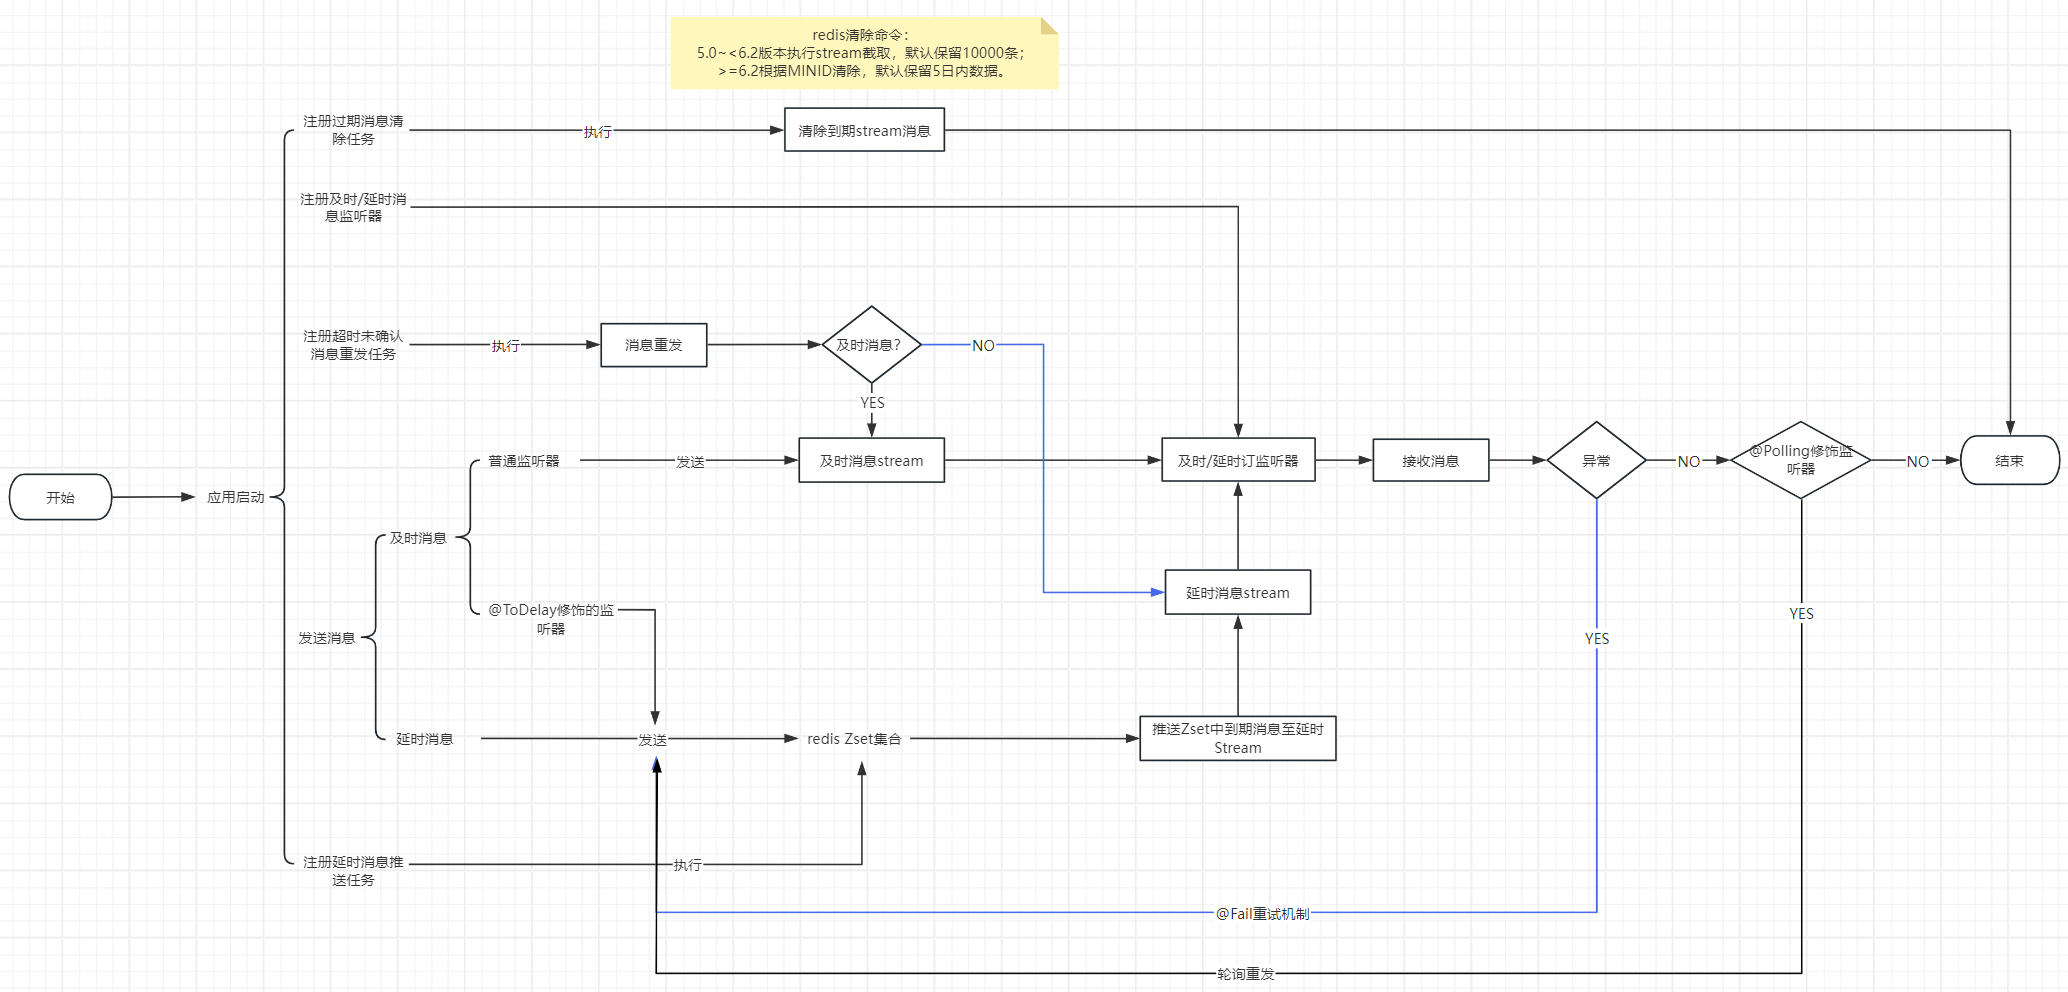
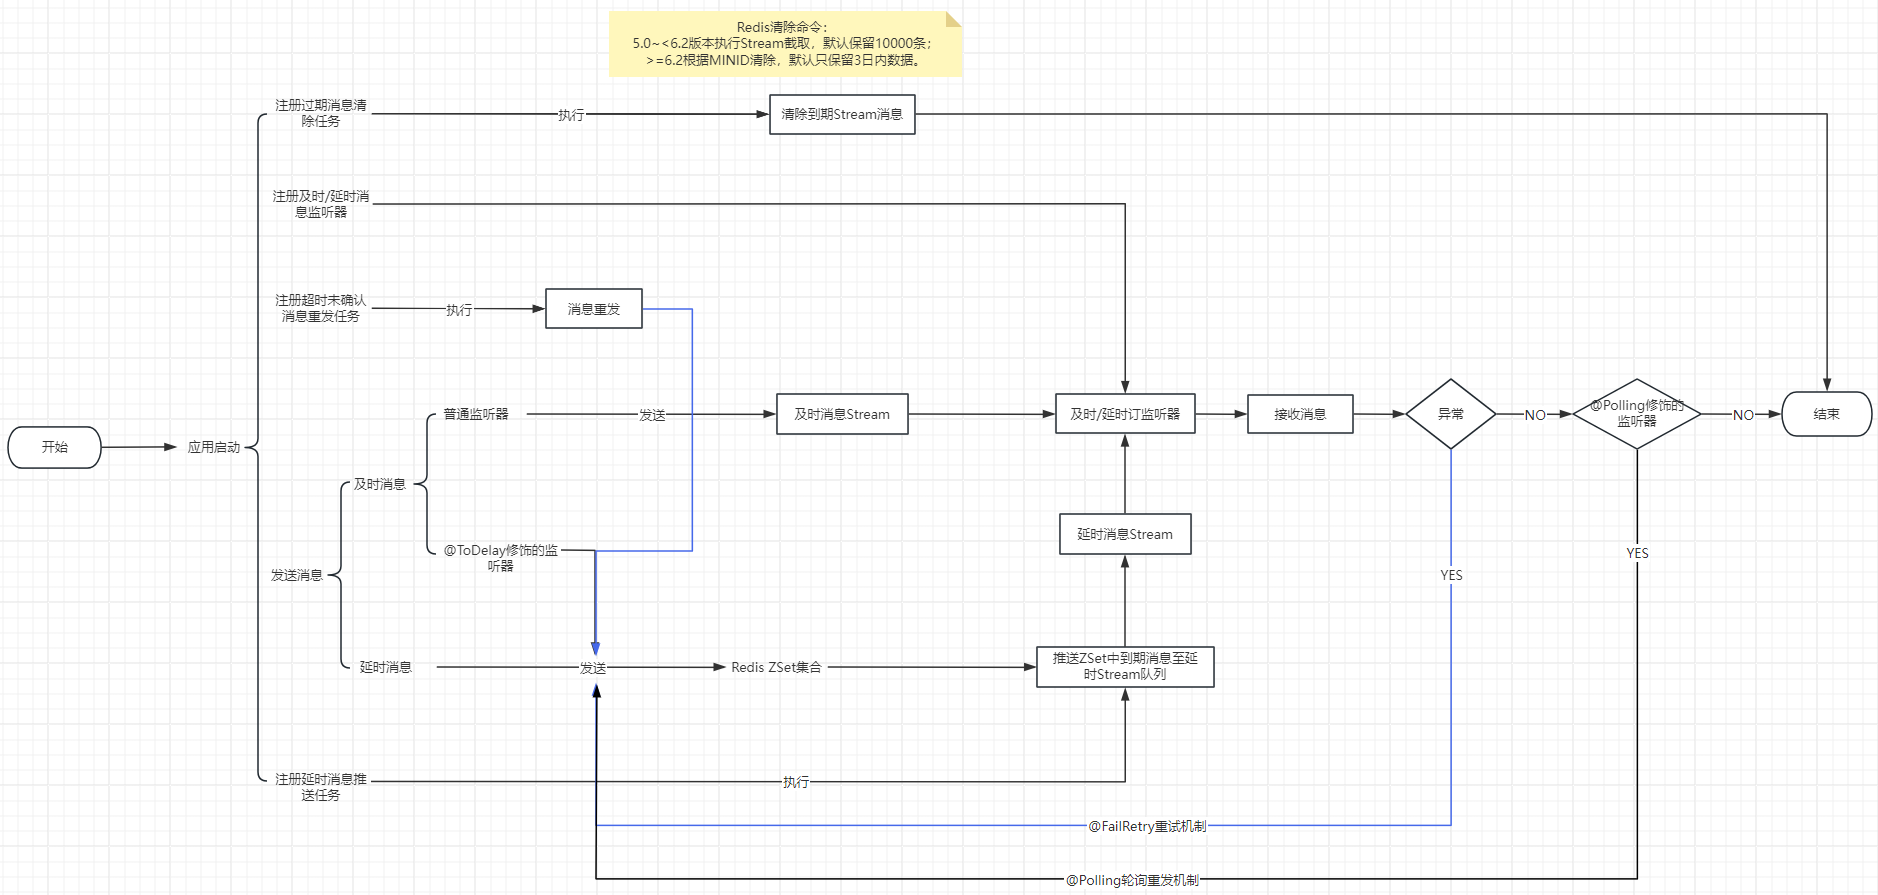
feat(core): 优化消息重试机制和线程池配置
- 重发/重试消息接收并发数统一为 retryConcurrency
- 新增 pollBlockMillis 配置项，用于设置 Redis Stream轮询阻塞时间
- 新增 deliverGroupThreadPoolSize 和 deliverGroupThreadKeepAliveTime 配置项，用于设置消息投递线程池配置
- 优化消息轮询和投递逻辑，提高系统稳定性和性能

diff --git a/eventbus-spring-boot-starter/src/main/java/com/github/likavn/eventbus/provider/redis/support/XDefaultStreamMessageListenerContainer.java b/eventbus-spring-boot-starter/src/main/java/com/github/likavn/eventbus/provider/redis/support/XDefaultStreamMessageListenerContainer.java
@@ -32,9 +32,7 @@ import org.springframework.util.Assert;
 import org.springframework.util.ErrorHandler;
 
 import java.time.Duration;
-import java.util.ArrayList;
-import java.util.Collections;
-import java.util.List;
+import java.util.*;
 import java.util.concurrent.BlockingDeque;
 import java.util.concurrent.Executor;
 import java.util.concurrent.LinkedBlockingDeque;
@@ -57,9 +55,13 @@ class XDefaultStreamMessageListenerContainer<K, V extends Record<K, ?>> implemen
 
     private final Object lifecycleMonitor = new Object();
 
-    private final PollThreadPoolExecutor poolPullExecutor;
+    private final PollThreadPoolExecutor streamPollExecutor;
 
-    private final GroupedThreadPoolExecutor taskExcExecutor;
+    private final GroupedThreadPoolExecutor deliverExecutor;
+    /**
+     * stream 轮询拉取任务
+     */
+    private final BlockingDeque<XStreamPollTask> streamPollTasks = new LinkedBlockingDeque<>();
     private final ErrorHandler errorHandler;
     private final StreamReadOptions readOptions;
     private final RedisTemplate<K, ?> template;
@@ -77,14 +79,16 @@ class XDefaultStreamMessageListenerContainer<K, V extends Record<K, ?>> implemen
      * @param containerOptions  must not be {@literal null}.
      * @param taskExcExecutor
      */
-    XDefaultStreamMessageListenerContainer(RedisConnectionFactory connectionFactory,
-                                           StreamMessageListenerContainerOptions<K, V> containerOptions, GroupedThreadPoolExecutor taskExcExecutor) {
+    XDefaultStreamMessageListenerContainer(RedisConnectionFactory connectionFactory, StreamMessageListenerContainerOptions<K, V> containerOptions, GroupedThreadPoolExecutor deliverExecutor) {
 
         Assert.notNull(connectionFactory, "RedisConnectionFactory must not be null!");
         Assert.notNull(containerOptions, "StreamMessageListenerContainerOptions must not be null!");
 
-        this.poolPullExecutor = (PollThreadPoolExecutor) containerOptions.getExecutor();
-        this.taskExcExecutor = taskExcExecutor;
+        this.streamPollExecutor = (PollThreadPoolExecutor) containerOptions.getExecutor();
+        this.deliverExecutor = deliverExecutor;
+        this.deliverExecutor.setAfterConsumer(t -> {
+            streamPollTasks.add((XStreamPollTask) t.getTask().getData());
+        });
         this.errorHandler = containerOptions.getErrorHandler();
         this.readOptions = getStreamReadOptions(containerOptions);
         this.template = createRedisTemplate(connectionFactory, containerOptions);
@@ -112,8 +116,7 @@ class XDefaultStreamMessageListenerContainer<K, V extends Record<K, ?>> implemen
         return readOptions;
     }
 
-    private RedisTemplate<K, V> createRedisTemplate(RedisConnectionFactory connectionFactory,
-                                                    StreamMessageListenerContainerOptions<K, V> containerOptions) {
+    private RedisTemplate<K, V> createRedisTemplate(RedisConnectionFactory connectionFactory, StreamMessageListenerContainerOptions<K, V> containerOptions) {
 
         RedisTemplate<K, V> template = new RedisTemplate<>();
         template.setKeySerializer(containerOptions.getKeySerializer());
@@ -169,23 +172,49 @@ class XDefaultStreamMessageListenerContainer<K, V extends Record<K, ?>> implemen
     }
 
     public void doloop(List<XStreamPollTask> tasks) {
-        BlockingDeque<XStreamPollTask> blockingTasks = new LinkedBlockingDeque<>(tasks);
-        taskExcExecutor.setAfterConsumer(t -> {
-            blockingTasks.add((XStreamPollTask) t.getTask().getData());
-        });
-        int corePoolSize = poolPullExecutor.getCorePoolSize();
+        tasks.forEach(task -> streamPollTasks.add(task));
+        int corePoolSize = streamPollExecutor.getCorePoolSize();
         while (corePoolSize-- > 0) {
-            poolPullExecutor.execute(() -> {
+            streamPollExecutor.execute(() -> {
                 try {
-                    XStreamPollTask task = blockingTasks.take();
+                    validColdTasks();
+                    XStreamPollTask task = streamPollTasks.take();
                     if (task.pull()) {
-                        blockingTasks.add(task);
+                        addColdTask(task);
                     }
                 } catch (InterruptedException e) {
-                    log.error("XDefaultStreamMessageListenerContainer.stop", e);
+                    log.error("XDefaultStreamMessageListenerContainer.doloop", e);
                 }
             });
         }
+    }
+    private volatile SortedMap<Long, List<XStreamPollTask>> coldStreamPollTasks = new TreeMap<>((o1, o2) -> -o1.compareTo(o2));
+    private synchronized void addColdTask(XStreamPollTask task) {
+        long l = System.currentTimeMillis();
+        List<XStreamPollTask> tasks = coldStreamPollTasks.get(l);
+        if (null == tasks) {
+            tasks = new ArrayList<>(1);
+            tasks.add(task);
+            coldStreamPollTasks.put(l, tasks);
+            return;
+        }
+        tasks.add(task);
+    }
+    private synchronized void validColdTasks() {
+        SortedMap<Long, List<XStreamPollTask>> subMap = coldStreamPollTasks.tailMap(System.currentTimeMillis() - 1000L * 2);
+        if (!subMap.isEmpty()) {
+            streamPollTasksAdd(subMap);
+            return;
+        }
+        if (streamPollTasks.isEmpty()) {
+            streamPollTasksAdd(coldStreamPollTasks);
+        }
+    }
+    private void streamPollTasksAdd(SortedMap<Long, List<XStreamPollTask>> map) {
+        map.forEach((k, tasks) ->
+                tasks.forEach(task ->
+                        streamPollTasks.add(task)));
+        map.clear();
     }
 
     /*
@@ -202,7 +231,7 @@ class XDefaultStreamMessageListenerContainer<K, V extends Record<K, ?>> implemen
                 subscriptions.forEach(Cancelable::cancel);
 
                 running = false;
-                poolPullExecutor.terminated();
+                streamPollExecutor.terminated();
             }
         }
     }
@@ -246,7 +275,7 @@ class XDefaultStreamMessageListenerContainer<K, V extends Record<K, ?>> implemen
 
         BiFunction<K, ReadOffset, List<? extends Record<?, ?>>> readFunction = getReadFunction(streamRequest);
 
-        return new XStreamPollTask<>(streamRequest, listener, errorHandler, (BiFunction) readFunction, taskExcExecutor, redisListener);
+        return new XStreamPollTask<>(streamRequest, listener, errorHandler, (BiFunction) readFunction, deliverExecutor, redisListener);
     }
 
     @SuppressWarnings("unchecked")
@@ -256,21 +285,18 @@ class XDefaultStreamMessageListenerContainer<K, V extends Record<K, ?>> implemen
 
             ConsumerStreamReadRequest<K> consumerStreamRequest = (ConsumerStreamReadRequest<K>) streamRequest;
 
-            StreamReadOptions readOptions = consumerStreamRequest.isAutoAcknowledge() ? this.readOptions.autoAcknowledge()
-                    : this.readOptions;
+            StreamReadOptions readOptions = consumerStreamRequest.isAutoAcknowledge() ? this.readOptions.autoAcknowledge() : this.readOptions;
             Consumer consumer = consumerStreamRequest.getConsumer();
 
             if (this.containerOptions.getHashMapper() != null) {
-                return (key, offset) -> streamOperations.read(this.containerOptions.getTargetType(), consumer, readOptions,
-                        StreamOffset.create(key, offset));
+                return (key, offset) -> streamOperations.read(this.containerOptions.getTargetType(), consumer, readOptions, StreamOffset.create(key, offset));
             }
 
             return (key, offset) -> streamOperations.read(consumer, readOptions, StreamOffset.create(key, offset));
         }
 
         if (this.containerOptions.getHashMapper() != null) {
-            return (key, offset) -> streamOperations.read(this.containerOptions.getTargetType(), readOptions,
-                    StreamOffset.create(key, offset));
+            return (key, offset) -> streamOperations.read(this.containerOptions.getTargetType(), readOptions, StreamOffset.create(key, offset));
         }
 
         return (key, offset) -> streamOperations.read(readOptions, StreamOffset.create(key, offset));

diff --git a/eventbus-spring-boot-starter/src/main/java/com/github/likavn/eventbus/provider/redis/support/AbstractStreamListenerContainer.java b/eventbus-spring-boot-starter/src/main/java/com/github/likavn/eventbus/provider/redis/support/AbstractStreamListenerContainer.java
@@ -89,7 +89,7 @@ public abstract class AbstractStreamListenerContainer implements AcquireListener
                 // 设置消息消费异常的处理程序
                 .errorHandler(t -> log.error("[Eventbus error] ", t))
                 // 设置轮询超时时间，如果设置为0，则表示不超时
-                .pollTimeout(Duration.ofMillis(5))
+                .pollTimeout(Duration.ofMillis(config.getRedis().getPollBlockMillis()))
                 // 设置序列化器
                 .serializer(new StringRedisSerializer())
                 // 设置目标类型为String
@@ -114,11 +114,11 @@ public abstract class AbstractStreamListenerContainer implements AcquireListener
         BusProperties.RedisProperties redis = config.getRedis();
         // 根据配置创建不同的线程池
         PollThreadPoolExecutor executor = new PollThreadPoolExecutor(redis.getPollThreadPoolSize(), redis.getPollThreadPoolSize(), 1,
-                TimeUnit.MINUTES, new LinkedBlockingDeque<>(1), new NamedThreadFactory(this.getClass().getSimpleName() + "-"));
+                TimeUnit.MINUTES, new LinkedBlockingDeque<>(1), new NamedThreadFactory(this.getClass().getSimpleName() + ".poll-"));
         // 分发消息的线程池
-        GroupedThreadPoolExecutor excExecutor = new GroupedThreadPoolExecutor(1, 1000 * redis.getPollThreadKeepAliveTime(),
-                new NamedThreadFactory(this.getClass().getSimpleName() + ".exc-"));
-        return new Object[]{executor, excExecutor};
+        GroupedThreadPoolExecutor deliverExecutor = new GroupedThreadPoolExecutor(redis.getDeliverGroupThreadPoolSize(), redis.getDeliverGroupThreadKeepAliveTime(),
+                new NamedThreadFactory(this.getClass().getSimpleName() + ".deliver-"));
+        return new Object[]{executor, deliverExecutor};
     }
 
     /**

diff --git a/eventbus-spring-boot-starter/src/main/java/com/github/likavn/eventbus/provider/redis/support/XStreamPollTask.java b/eventbus-spring-boot-starter/src/main/java/com/github/likavn/eventbus/provider/redis/support/XStreamPollTask.java
@@ -43,7 +43,7 @@ import java.util.function.Predicate;
  */
 @SuppressWarnings("all")
 class XStreamPollTask<K, V extends Record<K, ?>> implements Task {
-    private final GroupedThreadPoolExecutor taskExcExecutor;
+    private final GroupedThreadPoolExecutor deliverExecutor;
     private final StreamReadRequest<K> request;
     private final StreamListener<K, V> listener;
     private final ErrorHandler errorHandler;
@@ -56,8 +56,8 @@ class XStreamPollTask<K, V extends Record<K, ?>> implements Task {
     private volatile boolean isInEventLoop = false;
 
     XStreamPollTask(StreamReadRequest<K> streamRequest, StreamListener<K, V> listener, ErrorHandler errorHandler,
-                    BiFunction<K, ReadOffset, List<V>> readFunction, GroupedThreadPoolExecutor taskExcExecutor, RedisListener redisListener) {
-        this.taskExcExecutor = taskExcExecutor;
+                    BiFunction<K, ReadOffset, List<V>> readFunction, GroupedThreadPoolExecutor deliverExecutor, RedisListener redisListener) {
+        this.deliverExecutor = deliverExecutor;
         this.request = streamRequest;
         this.listener = listener;
         this.errorHandler = Optional.ofNullable(streamRequest.getErrorHandler()).orElse(errorHandler);
@@ -164,7 +164,7 @@ class XStreamPollTask<K, V extends Record<K, ?>> implements Task {
             if (read.isEmpty()) {
                 return true;
             }
-            this.taskExcExecutor.execute(task.target(() -> {
+            this.deliverExecutor.execute(task.target(() -> {
                 for (V message : read) {
 
                     listener.onMessage(message);

diff --git a/eventbus-spring-boot-starter/src/main/java/com/github/likavn/eventbus/prop/BusProperties.java b/eventbus-spring-boot-starter/src/main/java/com/github/likavn/eventbus/prop/BusProperties.java
@@ -42,13 +42,21 @@ public class BusProperties extends BusConfig {
     @Data
     public static class RedisProperties {
         /**
-         * 轮询时拉取redis stream 中消息的线程最大数，默认为：2个
+         * 轮询时拉取Redis Stream中消息的线程池大小，默认为：2
          */
         private Integer pollThreadPoolSize = 2;
         /**
-         * 轮询时，接收消息的线程池中空闲线程存活时长，单位：秒，默认为：300s
+         * 轮询时拉取Redis Stream中消息的阻塞时间，单位：毫秒，默认为：5ms
          */
-        private Integer pollThreadKeepAliveTime = 300;
+        private Long pollBlockMillis = 5L;
+        /**
+         * 投递消息线程池大小，默认为：5
+         */
+        private Integer deliverGroupThreadPoolSize = 5;
+        /**
+         * 投递消息线程池中空闲线程存活时长，单位：毫秒，默认为：60s
+         */
+        private Long deliverGroupThreadKeepAliveTime = 1000L * 60;
         /**
          * 消息超时时间，超时消息未被确认，才会被重新投递，单位：秒，默认：5分钟
          */

diff --git a/eventbus-core/src/main/java/com/github/likavn/eventbus/core/base/MsgListenerContainer.java b/eventbus-core/src/main/java/com/github/likavn/eventbus/core/base/MsgListenerContainer.java
@@ -45,7 +45,7 @@ public class MsgListenerContainer {
     /**
      * 启动检测状态
      */
-    public void startup() {
+    public synchronized void startup() {
         if (Func.isEmpty(listeners)) {
             return;
         }
@@ -56,7 +56,7 @@ public class MsgListenerContainer {
     /**
      * 停止检测状态
      */
-    public void shutdown() {
+    public synchronized void shutdown() {
         this.active = false;
         this.destroyListeners();
     }
@@ -64,7 +64,7 @@ public class MsgListenerContainer {
     /**
      * 注册所有监听组件
      */
-    protected void registerListeners() {
+    protected synchronized void registerListeners() {
         if (!this.active) {
             return;
         }
@@ -79,7 +79,7 @@ public class MsgListenerContainer {
     /**
      * 销毁所有监听组件
      */
-    protected void destroyListeners() {
+    protected synchronized void destroyListeners() {
         // 遍历组件列表
         for (Lifecycle listener : listeners) {
             // 销毁组件

diff --git a/eventbus-core/src/main/java/com/github/likavn/eventbus/core/utils/GroupedThreadPoolExecutor.java b/eventbus-core/src/main/java/com/github/likavn/eventbus/core/utils/GroupedThreadPoolExecutor.java
@@ -57,7 +57,7 @@ public class GroupedThreadPoolExecutor {
     private final AtomicInteger currentCorePoolSize = new AtomicInteger(0);
 
     private final int corePoolSize;
-    private final int keepAliveTimeMillis;
+    private final long keepAliveTimeMillis;
     private final NamedThreadFactory threadFactory;
 
     /**
@@ -72,7 +72,7 @@ public class GroupedThreadPoolExecutor {
     @Setter
     private Consumer<WorkerThread> afterConsumer;
 
-    public GroupedThreadPoolExecutor(int corePoolSize, int keepAliveTimeMillis, NamedThreadFactory threadFactory) {
+    public GroupedThreadPoolExecutor(int corePoolSize, long keepAliveTimeMillis, NamedThreadFactory threadFactory) {
         this.corePoolSize = corePoolSize;
         this.keepAliveTimeMillis = keepAliveTimeMillis;
         this.threadFactory = threadFactory;

diff --git a/eventbus-core/src/main/java/com/github/likavn/eventbus/core/metadata/BusConfig.java b/eventbus-core/src/main/java/com/github/likavn/eventbus/core/metadata/BusConfig.java
@@ -49,7 +49,7 @@ public class BusConfig {
     private Integer concurrency = 2;
 
     /**
-     * 重试消息接收并发数，默认为：1
+     * 重发/重试消息接收并发数，默认为：1
      */
     private Integer retryConcurrency = 1;
 
@@ -95,7 +95,7 @@ public class BusConfig {
         private Integer retryCount = 3;
 
         /**
-         * 下次触发时间，单位：秒，默认10秒 ，（rocketMq对应为18个延时消息级别）
+         * 失败重试下次触发时间，单位：秒，默认10秒 ，（rocketMq对应为18个延时消息级别）
          */
         private Long nextTime = 10L;
     }

diff --git a/eventbus-demo/springboot-demo/src/main/java/com/github/likavn/eventbus/demo/listener/test/TestListListener.java b/eventbus-demo/springboot-demo/src/main/java/com/github/likavn/eventbus/demo/listener/test/TestListListener.java
@@ -19,6 +19,7 @@ import com.github.likavn.eventbus.core.annotation.EventbusListener;
 import com.github.likavn.eventbus.core.api.MsgListener;
 import com.github.likavn.eventbus.core.metadata.data.Message;
 import com.github.likavn.eventbus.demo.domain.TMsg;
+import org.springframework.stereotype.Component;
 
 import java.util.List;
 
@@ -26,8 +27,8 @@ import java.util.List;
  * @author likavn
  * @date 2024/5/25
  */
-//@Component
-@EventbusListener(codes = "testArrayListener")
+@Component
+@EventbusListener(codes = "testListListener")
 public class TestListListener implements MsgListener<List<TMsg>> {
 
     @Override

diff --git a/eventbus-core/src/main/java/com/github/likavn/eventbus/core/ListenerRegistry.java b/eventbus-core/src/main/java/com/github/likavn/eventbus/core/ListenerRegistry.java
@@ -133,7 +133,7 @@ public class ListenerRegistry {
         List<String> codes = getListenerCodes(originalClass, eventbusListener);
         // 确定并发模式
         Integer concurrency = getConcurrency(eventbusListener.concurrency(), config.getConcurrency());
-        // 异常重试消息接收并发数
+        // 重发/重试消息接收并发数
         Integer retryConcurrency = getConcurrency(eventbusListener.retryConcurrency(), config.getRetryConcurrency());
         // 获取事件触发器
         Trigger trigger = getTrigger(obj, BusConstant.ON_MESSAGE);

diff --git a/eventbus-demo/springboot-demo/src/main/java/com/github/likavn/eventbus/demo/listener/test/TestIntegerListener.java b/eventbus-demo/springboot-demo/src/main/java/com/github/likavn/eventbus/demo/listener/test/TestIntegerListener.java
@@ -18,13 +18,14 @@ package com.github.likavn.eventbus.demo.listener.test;
 import com.github.likavn.eventbus.core.annotation.EventbusListener;
 import com.github.likavn.eventbus.core.api.MsgListener;
 import com.github.likavn.eventbus.core.metadata.data.Message;
+import org.springframework.stereotype.Component;
 
 /**
  * @author likavn
  * @date 2024/5/25
  */
-//@Component
-@EventbusListener(codes = "testArrayListener")
+@Component
+@EventbusListener(codes = "testIntegerListener")
 public class TestIntegerListener implements MsgListener<Integer> {
 
     @Override

diff --git a/eventbus-demo/springboot-demo/src/main/java/com/github/likavn/eventbus/demo/listener/test/TestMapListener.java b/eventbus-demo/springboot-demo/src/main/java/com/github/likavn/eventbus/demo/listener/test/TestMapListener.java
@@ -18,6 +18,7 @@ package com.github.likavn.eventbus.demo.listener.test;
 import com.github.likavn.eventbus.core.annotation.EventbusListener;
 import com.github.likavn.eventbus.core.api.MsgListener;
 import com.github.likavn.eventbus.core.metadata.data.Message;
+import org.springframework.stereotype.Component;
 
 import java.util.Map;
 
@@ -25,7 +26,7 @@ import java.util.Map;
  * @author likavn
  * @date 2024/5/25
  */
-//@Component
+@Component
 @EventbusListener(codes = "testMapListener")
 public class TestMapListener implements MsgListener<Map<String, Object>> {
 

diff --git a/eventbus-demo/springboot-demo/src/main/java/com/github/likavn/eventbus/demo/listener/test/TestArrayListener.java b/eventbus-demo/springboot-demo/src/main/java/com/github/likavn/eventbus/demo/listener/test/TestArrayListener.java
@@ -19,12 +19,13 @@ import com.github.likavn.eventbus.core.annotation.EventbusListener;
 import com.github.likavn.eventbus.core.api.MsgListener;
 import com.github.likavn.eventbus.core.metadata.data.Message;
 import com.github.likavn.eventbus.demo.domain.TMsg;
+import org.springframework.stereotype.Component;
 
 /**
  * @author likavn
  * @date 2024/5/25
  */
-//@Component
+@Component
 @EventbusListener(codes = "testArrayListener")
 public class TestArrayListener implements MsgListener<TMsg[]> {
     @Override
